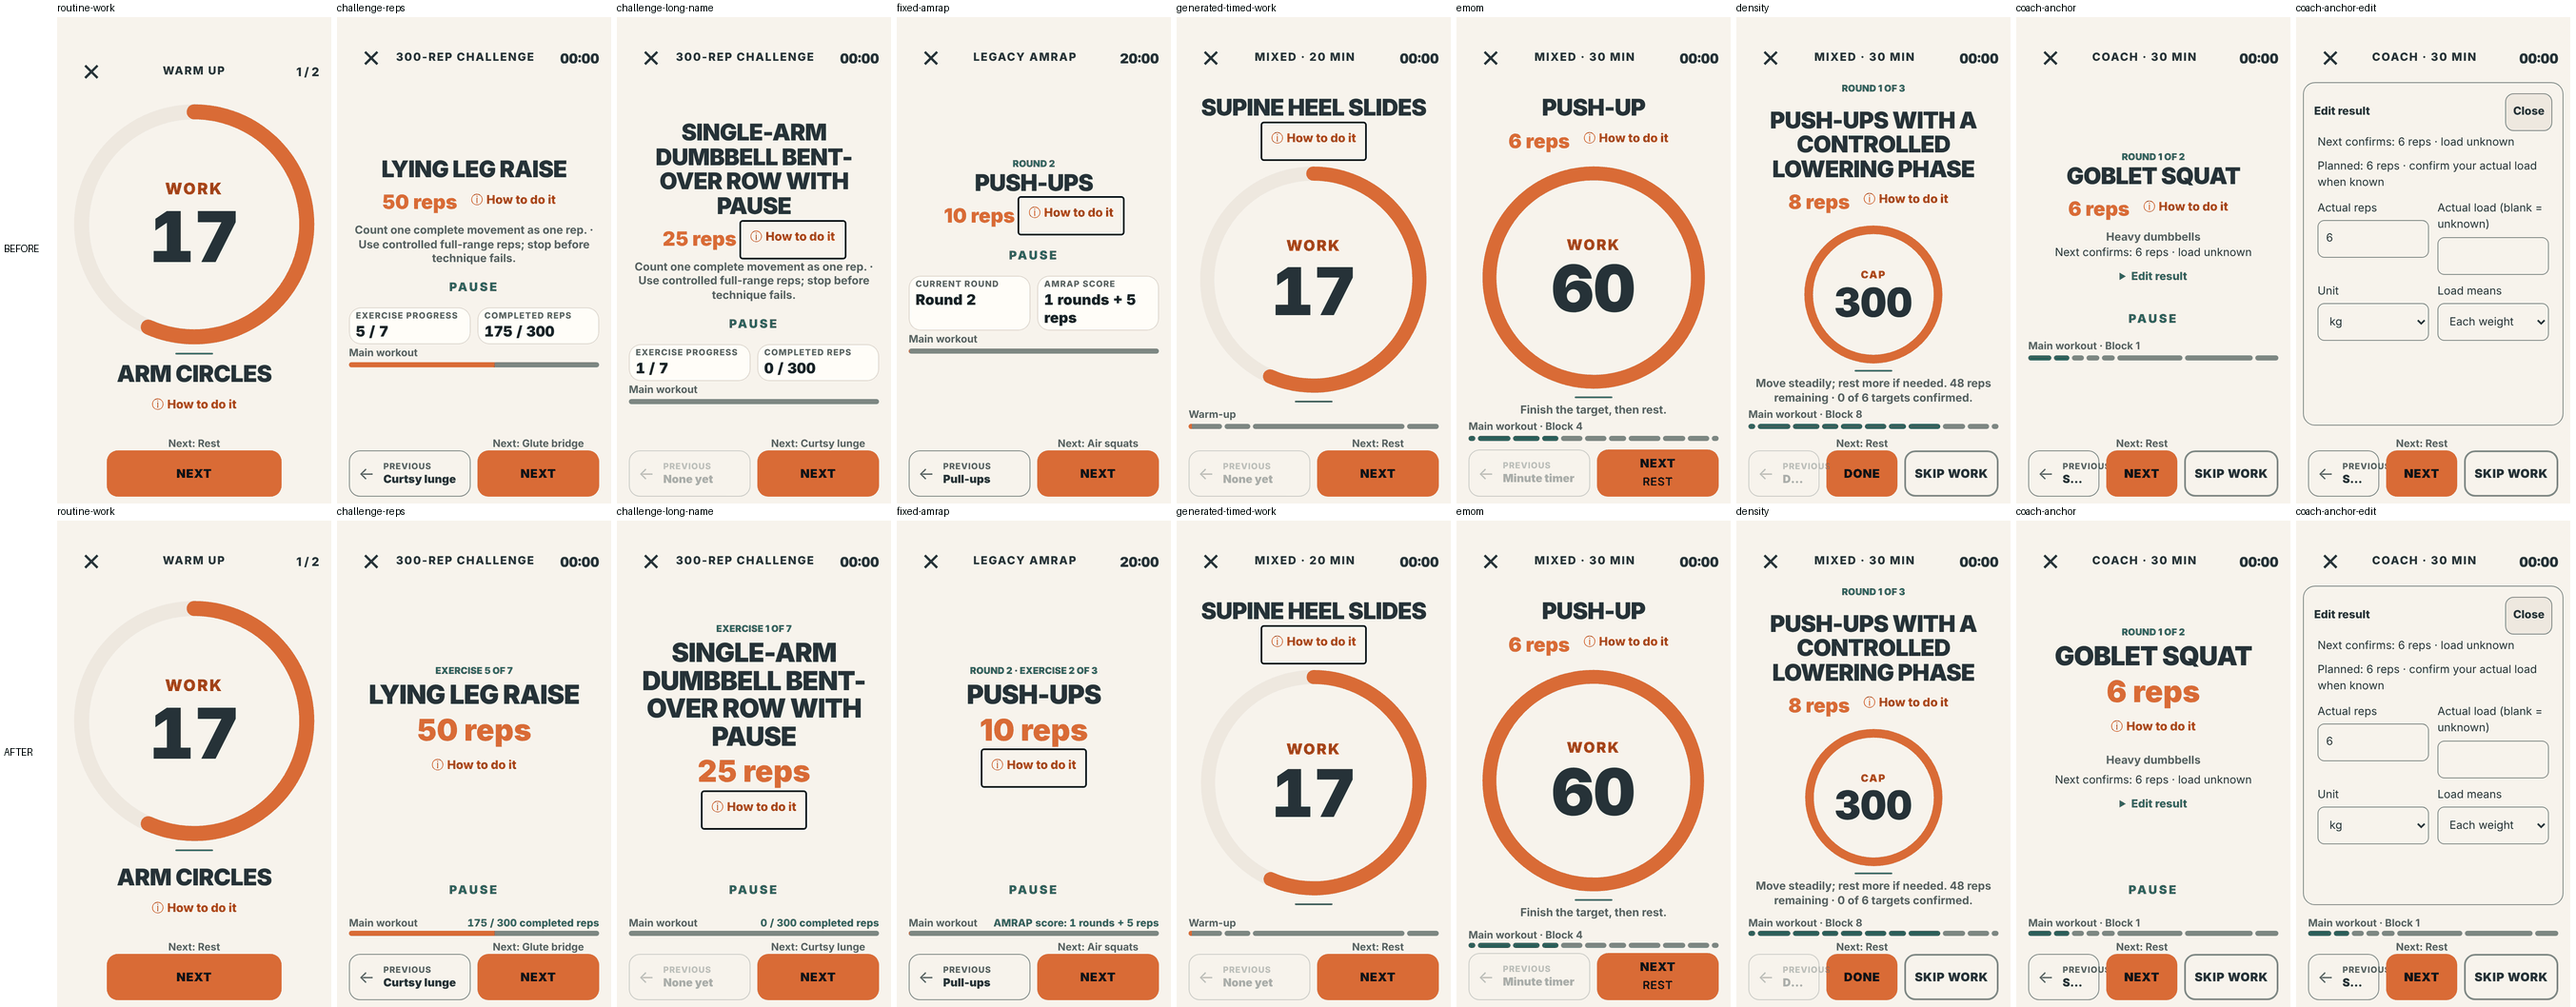
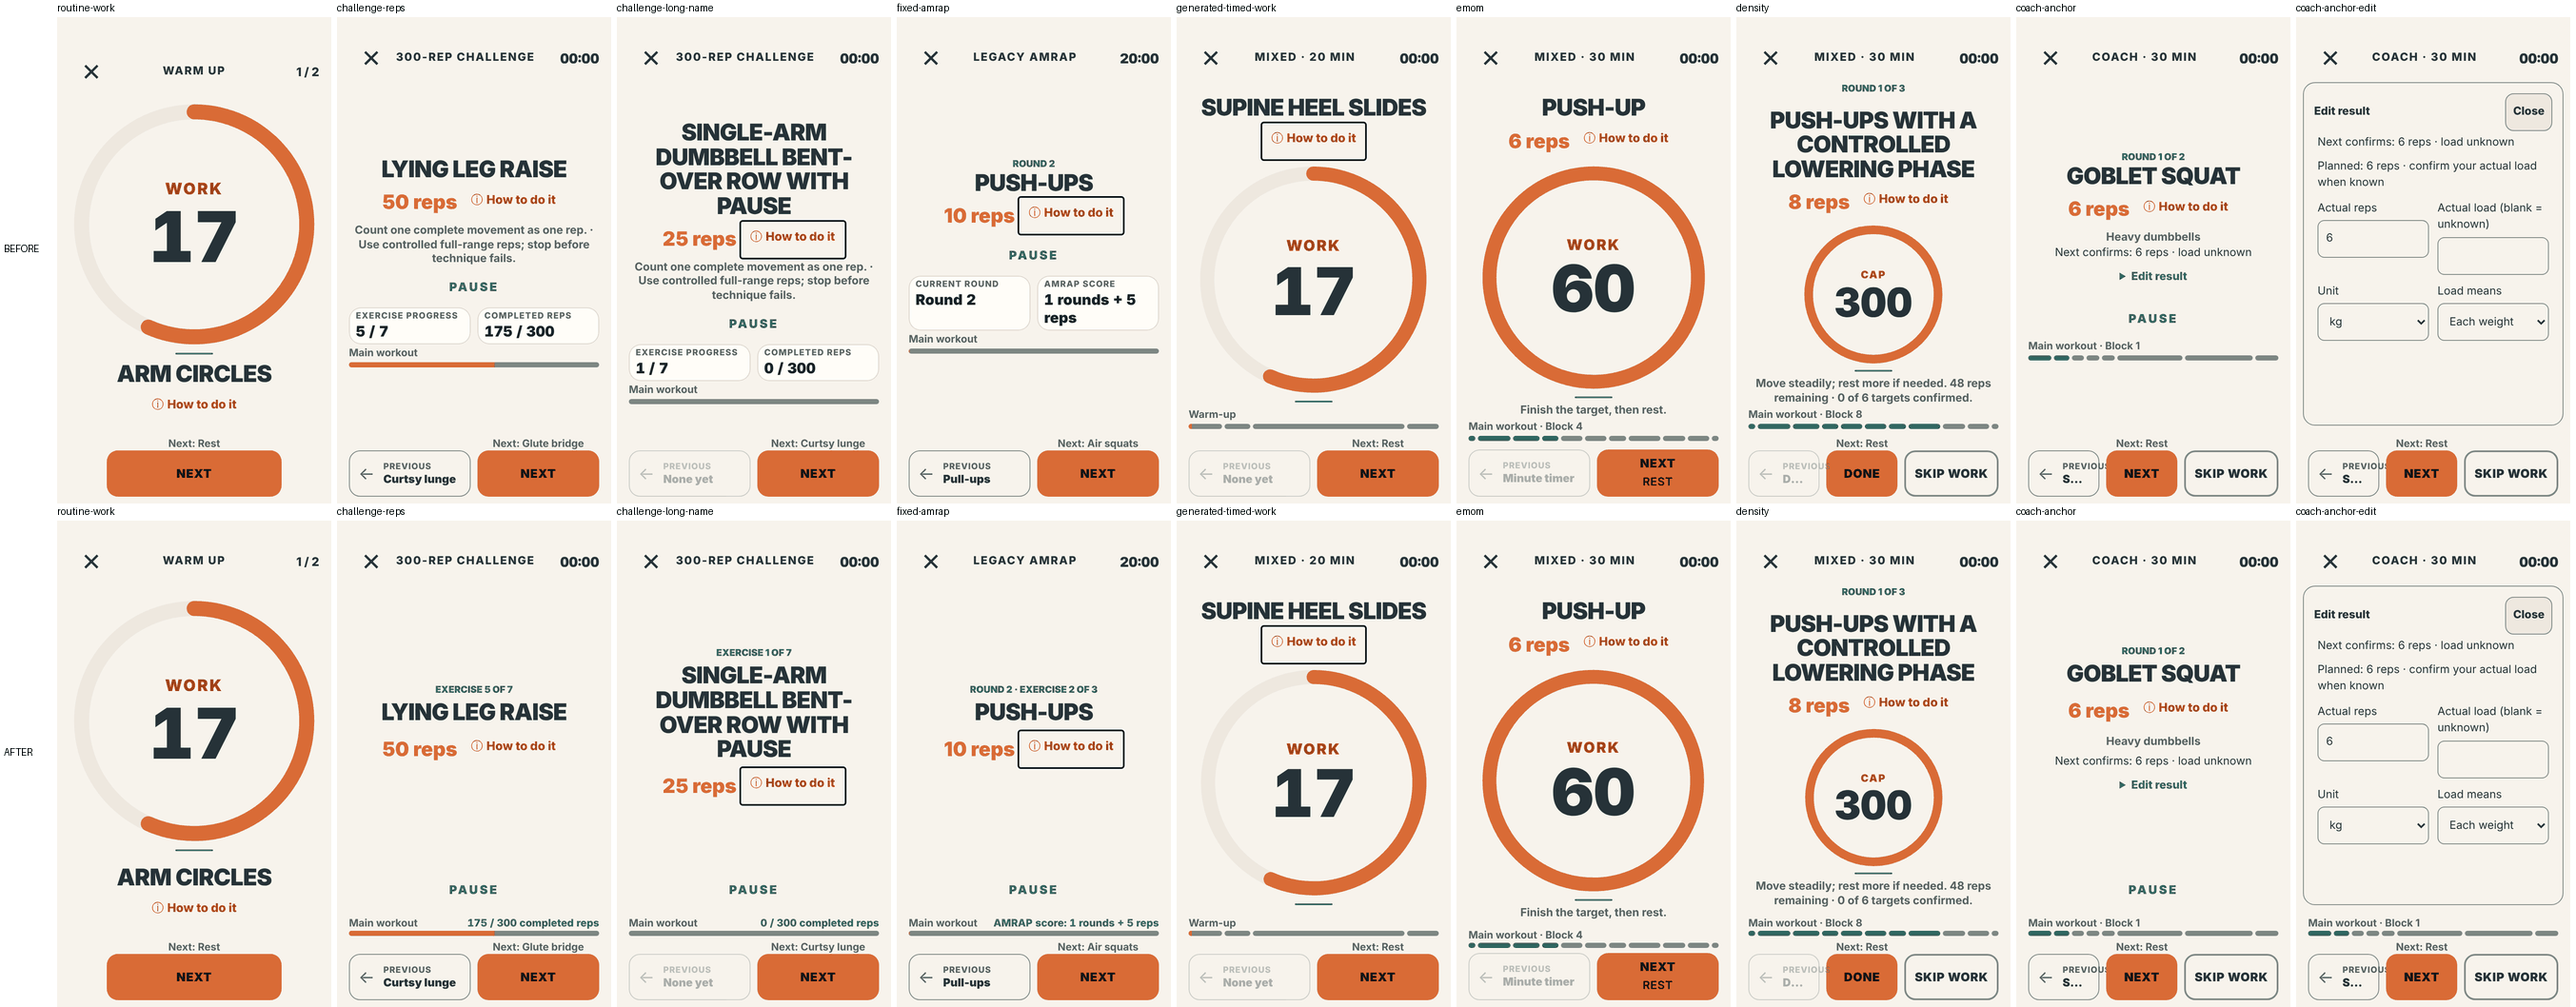
Address independent review of the #404 player foundation
- Enlarged rep name/target apply only above the compact (<=620px) height and
  never in the player-reflow fallback; balance margins also skip reflow.
- How to do it speech surface is described by both instruction and guidance;
  illustration sizing measures the whole displayed text block.
- Clear the fixed-workout confirmed total when a generated workout starts;
  remove the now-dead .generated-player .overall-progress margin.
- Verifier: meaningful vacant-ring check for both players, narrower journey
  fold exemption, generated players must not show the fixed total, and
  screenshot capture is opt-in (--evidence / --evidence-only).
- Docs: correct the reflow/compact statement; physical-device checklist now
  covers the reduced header offset on SE-size/Safari layouts.

Claude-Session: https://claude.ai/code/session_01XwQVQosRuTQgFVM4MxzKHE

Changed region(s): [[0.1242, 0.6238, 0.3415, 0.811], [0.8071, 0.6238, 0.8692, 0.811], [0.3725, 0.655, 0.4346, 0.7798]]

diff --git a/index.html b/index.html
@@ -117,7 +117,7 @@ layout: null
   #equipment{margin-bottom:env(safe-area-inset-bottom);padding-bottom:calc(14px + env(safe-area-inset-bottom))}#equipment>*{flex-shrink:0}
   #equipment .equipment-item{min-width:0;overflow-wrap:anywhere}#equipment .equipment-item::after{flex-shrink:0}
   .preview-kicker{color:var(--work-light);font-weight:900;font-size:12px;letter-spacing:.12em;text-transform:uppercase;margin-bottom:7px}.preview-rounds{font-size:25px;font-weight:950;margin:0 0 15px}.preview-timing{display:grid;grid-template-columns:1fr 1fr;gap:9px;margin:12px 0}.preview-time-card{border:1px solid var(--surface-2);border-radius:12px;padding:11px;color:var(--text-muted);font-size:11px}.preview-time-card strong{display:block;color:var(--text);font-size:15px;margin-bottom:2px}.preview-estimate{text-align:center;color:var(--rest);font-size:15px;font-weight:900;margin:14px 0}.preview-actions{display:grid;grid-template-columns:1fr 1.7fr;gap:10px}.preview-actions button{border-radius:13px;padding:16px 10px;font-size:13px;font-weight:900;text-transform:uppercase}.preview-regenerate{border:1px solid var(--surface-2);background:transparent;color:var(--text)}.preview-start{border:0;background:var(--work);color:#101416}
-  .generated-player .workout-target{font-size:32px}.generated-player .workout-side-note{font-size:15px;color:var(--text-muted)}.generated-player .journey-summary{display:none}.generated-player .overall-progress{margin-top:30px}.generated-player.rest-phase .workout-exercise{color:var(--rest)}
+  .generated-player .workout-target{font-size:32px}.generated-player .workout-side-note{font-size:15px;color:var(--text-muted)}.generated-player .journey-summary{display:none}.generated-player.rest-phase .workout-exercise{color:var(--rest)}
   #generatedDoneStats{grid-template-columns:repeat(3,1fr)}
   #amrapDoneStats{grid-template-columns:1fr}.partial-reps-field{width:100%;border:1px solid #cdd4d1;border-radius:11px;padding:13px;font:inherit;font-size:20px;font-weight:850;color:var(--card-text)}
 
@@ -1626,7 +1626,7 @@ function buildGeneratedTimeline(workout){
 // tracking options ({store, source, meaningful, ...}; see js/session-tracker.js). Coach passes
 // its own tracker; the standalone Start button opts in through standaloneGeneratedTracking().
 function startGeneratedWorkout(tracking){
-  if(!generatorState.workout)return;generatorState.densityBlocks=new Map();generatorState.amrapBlocks=new Map();generatorState.emomBlocks=new Map();generatorState.emomSuspended=false;generatorState.emomActionAfterMs=null;beginInstructionSession();generatorState.workout=GarageFitGenerator.normaliseWorkout(generatorState.workout);stopTimer();stopGeneratedPhaseTimer();stopWorkoutClock();state.running=false;state.doneDestination='generator';workoutState={mode:'generated',idx:0,completed:[],elapsedMs:0,startedAt:Date.now(),timer:null,paused:false,running:true};generatorState.timeline=buildGeneratedTimeline(generatorState.workout);startGeneratedTracking(tracking);generatorState.timelineIndex=0;generatorState.remaining=0;generatorState.completedMain=0;const player=document.getElementById('workoutPlayer');player.classList.add('generated-player');document.getElementById('workoutPlayerTitle').textContent=generatedWorkoutIdentity(generatorState.workout)+' · '+generatorState.workout.duration+' min';document.getElementById('doneStats').classList.add('hidden');document.getElementById('generatedDoneStats').classList.add('hidden');document.getElementById('amrapDoneStats').classList.add('hidden');showScreen('workoutPlayer');startWorkoutClock();requestWake();enterGeneratedPhase(0);speak('Get ready. '+generatorState.timeline.find(phase=>phase.kind==='exercise').exercise.name);
+  if(!generatorState.workout)return;generatorState.densityBlocks=new Map();generatorState.amrapBlocks=new Map();generatorState.emomBlocks=new Map();generatorState.emomSuspended=false;generatorState.emomActionAfterMs=null;beginInstructionSession();generatorState.workout=GarageFitGenerator.normaliseWorkout(generatorState.workout);stopTimer();stopGeneratedPhaseTimer();stopWorkoutClock();state.running=false;state.doneDestination='generator';workoutState={mode:'generated',idx:0,completed:[],elapsedMs:0,startedAt:Date.now(),timer:null,paused:false,running:true};generatorState.timeline=buildGeneratedTimeline(generatorState.workout);startGeneratedTracking(tracking);generatorState.timelineIndex=0;generatorState.remaining=0;generatorState.completedMain=0;const player=document.getElementById('workoutPlayer');player.classList.add('generated-player');document.getElementById('workoutCompletedValue').textContent='';document.getElementById('workoutPlayerTitle').textContent=generatedWorkoutIdentity(generatorState.workout)+' · '+generatorState.workout.duration+' min';document.getElementById('doneStats').classList.add('hidden');document.getElementById('generatedDoneStats').classList.add('hidden');document.getElementById('amrapDoneStats').classList.add('hidden');showScreen('workoutPlayer');startWorkoutClock();requestWake();enterGeneratedPhase(0);speak('Get ready. '+generatorState.timeline.find(phase=>phase.kind==='exercise').exercise.name);
 }
 // Standalone generated workouts add a completed run to shared Training History as a
 // source=generator Session Result. The draft stays in memory: the exit flow promises that

diff --git a/css/player-layout.css b/css/player-layout.css
@@ -205,16 +205,18 @@ layout: null
 
 #completeMovementBtn>#completeMovementNext{display:block;font-size:13px;line-height:1.3;font-weight:600;margin-top:3px}
 
-/* Region 2 (#404): untimed rep work allocates no ring. Its name and target use the
-   freed space, the context/name/target group sits at the optical centre and the
-   explicit Pause control rests at the foot of the region. Portrait/tall only; the
-   landscape column layout and the reflow fallback keep their existing rules. */
+/* Region 2 (#404): untimed rep work allocates no ring. On normal-height portrait
+   layouts its name and target use the freed space; compact (<=620px) sizes still
+   apply on short screens. The context/name/target group sits at the optical centre
+   and the explicit Pause control rests at the foot of the region. Landscape
+   columns and the player-reflow fallback keep their existing rules. */
 @container player-viewport (min-height:481px){
-  #workoutPlayer .workout-stage:not(:has(.workout-ring-host:not(.hidden))) .workout-exercise{font-size:clamp(28px,min(10cqw,5.6cqh),48px)}
-  #workoutPlayer .workout-stage:not(:has(.workout-ring-host:not(.hidden))) .workout-target{flex-basis:100%;font-size:clamp(30px,min(12cqw,6.4cqh),56px);line-height:1.05}
-  #workoutPlayer .workout-stage:not(:has(.workout-ring-host:not(.hidden))){gap:6px}
-  #workoutPlayer .workout-stage:not(:has(.workout-ring-host:not(.hidden))) :is(#workoutMovementProgress,#workoutPausedState){margin-top:auto}
-  #player .routine-stage:has(.ring-wrap.hidden) :is(#routineTarget,#routinePause){margin-top:auto}
-  #player .routine-stage:has(.ring-wrap.hidden) .routine-target{font-size:clamp(30px,min(12cqw,6.4cqh),56px);line-height:1.05}
+  #workoutPlayer:not(.player-reflow) .workout-stage:not(:has(.workout-ring-host:not(.hidden))){gap:6px}
+  #workoutPlayer:not(.player-reflow) .workout-stage:not(:has(.workout-ring-host:not(.hidden))) :is(#workoutMovementProgress,#workoutPausedState){margin-top:auto}
+  #player:not(.player-reflow) .routine-stage:has(.ring-wrap.hidden) :is(#routineTarget,#routinePause){margin-top:auto}
 }
-
+@container player-viewport (min-height:621px){
+  #workoutPlayer:not(.player-reflow) .workout-stage:not(:has(.workout-ring-host:not(.hidden))) .workout-exercise{font-size:clamp(28px,min(10cqw,5.6cqh),48px)}
+  #workoutPlayer:not(.player-reflow) .workout-stage:not(:has(.workout-ring-host:not(.hidden))) .workout-target{flex-basis:100%;font-size:clamp(30px,min(12cqw,6.4cqh),56px);line-height:1.05}
+  #player:not(.player-reflow) .routine-stage:has(.ring-wrap.hidden) .routine-target{font-size:clamp(30px,min(12cqw,6.4cqh),56px);line-height:1.05}
+}

diff --git a/js/player-layout.js b/js/player-layout.js
@@ -45,7 +45,7 @@
         content.setAttribute('role', 'button');
         content.setAttribute('tabindex', '0');
         content.setAttribute('aria-label', 'Read exercise instruction aloud. Activate again to restart.');
-        content.setAttribute('aria-describedby', details.id + 'Text');
+        content.setAttribute('aria-describedby', details.id + 'Text ' + details.id + 'Guidance');
         const icon = document.createElement('span');
         icon.className = 'player-instruction-speaker';
         icon.setAttribute('aria-hidden', 'true');
@@ -111,7 +111,8 @@
           const content=instruction.querySelector('.player-detail-content');
           const region=instruction.querySelector('.player-instruction-image');
           // Catalogue text plus any workout guidance (#404) take precedence over artwork.
-          const textHeight=[...instruction.querySelectorAll('.player-detail-content>p')].reduce((sum,p)=>sum+p.getBoundingClientRect().height,0);
+          const shown=[...instruction.querySelectorAll('.player-detail-content>p')].filter(p=>p.getClientRects().length);
+          const textHeight=shown.length?shown.at(-1).getBoundingClientRect().bottom-shown[0].getBoundingClientRect().top:0;
           const available=content.clientHeight-textHeight-32;
           const width=Math.min(content.clientWidth-8,320,available*4/3);
           const show=region.datasetReady && width>=160;

diff --git a/tests/challenge300-player.test.js b/tests/challenge300-player.test.js
@@ -119,3 +119,12 @@ test('fixed AMRAP keeps its round context and score in compact form',()=>{
   assert.equal(h.el('workoutMovementProgress').textContent,'Round 2 · Exercise 2 of 3');
   assert.equal(h.el('workoutCompletedValue').textContent,'AMRAP score: 1 rounds + 5 reps');
 });
+
+test('a generated workout started after a fixed one does not retain the fixed confirmed total',()=>{
+  const h=harness();h.app.startChallenge300(h.plan);
+  h.time(400);h.app.completeWorkoutMovement();
+  assert.equal(h.el('workoutCompletedValue').textContent,'25 / 300 completed reps');
+  h.run("workoutState.running=false;generatorState.workout=GarageFitGenerator.generate({catalogue:CATALOGUE,duration:20,focus:'balanced',equipment:state.ownedEquipment,random:()=>0.4});startStandaloneGeneratedWorkout()");
+  assert.equal(h.el('workoutPlayer').classList.contains('generated-player'),true);
+  assert.equal(h.el('workoutCompletedValue').textContent,'');
+});

diff --git a/scripts/verify-player-layout.py b/scripts/verify-player-layout.py
@@ -122,18 +122,21 @@ METRICS = """({optional=false,allowReflow=false}={})=>{
  const journey=p.querySelector('.overall-progress');
  if(p.id==='workoutPlayer'){
   const j=box(journey),row=box(controls.querySelector('.workout-secondary-controls')?.firstElementChild||primary);
-  // Only an open editor under a keyboard-height viewport may fold the journey.
-  if(!visible(journey)){if(!(allowReflow&&optional))failures.push('journey hidden')}
+  // Only an open result/partial editor under a keyboard-height (<=340px) player may fold the journey.
+  const usable=app.getBoundingClientRect().height-parseFloat(getComputedStyle(app).paddingTop);
+  if(!visible(journey)){if(!(usable<=340&&p.querySelector('#coachAnchorEdit[open],#densityPartial[open]')))failures.push('journey hidden')}
   else{
    if(!controls.contains(journey)||j.y<nav.y-0.5||j.bottom>nav.bottom+0.5)failures.push('journey outside reserved footer');
    if(j.bottom>Math.min(pb.y,row.y)-2)failures.push('journey crowds navigation');
   }
   const summary=p.querySelector('#workoutCompletedValue');
   if(visible(summary)&&summary.scrollWidth>summary.clientWidth+1)failures.push('journey summary clipped');
-  // Rep work allocates no ring space (no vacant timer area).
-  const host=p.querySelector('.workout-ring-host');
-  if(host.classList.contains('hidden')&&visible(host))failures.push('vacant ring allocation');
+  // Generator and Coach never show the fixed-workout confirmed total.
+  if(p.classList.contains('generated-player')&&visible(summary))failures.push('generated player shows fixed total');
  }else if(journey)failures.push('routine player gained a journey');
+ // Without a visible ring, its host reserves no stage height (no vacant timer area).
+ const host=stage.querySelector('.routine-ring-host,.workout-ring-host');
+ if(!visible(p.querySelector('.ring-wrap'))&&box(host).height>1)failures.push('vacant ring allocation');
  // Balance: untimed portrait work splits free space evenly above its content group
  // and before the Pause control (or footer), rather than packing it at one edge.
  if(!optional&&!allowReflow&&v.width<540&&p.clientHeight>580&&!visible(p.querySelector('.ring-wrap'))){
@@ -512,6 +515,7 @@ def main():
     parser.add_argument('--url',default='http://127.0.0.1:8000')
     parser.add_argument('--output',type=Path,default=Path('/tmp/player-layout'))
     parser.add_argument('--navigation-only',action='store_true',help='Check the primary tab shell without running player fixtures')
+    parser.add_argument('--evidence',action='store_true',help='Also capture light/dark representative screenshots (evidence/) during the full run')
     parser.add_argument('--evidence-only',action='store_true',help='Capture light/dark representative screenshots (evidence/) without the full matrix')
     args=parser.parse_args();args.output.mkdir(parents=True,exist_ok=True)
     report=[]
@@ -528,7 +532,7 @@ def main():
             browser.close()
             return
         blocks=fixture_blocks()
-        appearance_evidence(browser,args.url,args.output/'evidence',blocks)
+        if args.evidence:appearance_evidence(browser,args.url,args.output/'evidence',blocks)
         instruction_speech_checks(browser,args.url)
         header_equivalence_checks(browser,args.url)
         timers.native_entry_checks(browser,args.url)

diff --git a/docs/PLAYER_VIEWPORT.md b/docs/PLAYER_VIEWPORT.md
@@ -245,10 +245,13 @@ visual viewport. No third player, framework or protocol-specific layout was adde
    This supersedes the routine-only `.player-top{padding-top:16px}` rule.
 2. **Adaptive current exercise.** The stage takes the remaining height. Timed states
    keep the unchanged ring, divider, tap-to-pause and colours. Untimed rep work
-   allocates no ring; on portrait/tall viewports its exercise name and target scale
-   up from the stage size (target on its own row), the context/name/target group
-   sits near the optical centre and the explicit Pause control rests at the foot of
-   the stage. Landscape columns and the bounded `player-reflow` fallback are unchanged.
+   allocates no ring. When the player viewport is taller than 620px, its exercise
+   name and target scale up from the stage size (target on its own row); shorter
+   screens keep the existing compact sizes. On portrait viewports taller than 480px
+   the context/name/target group sits near the optical centre and the explicit
+   Pause control rests at the foot of the stage. None of these rules apply in
+   landscape columns or the bounded `player-reflow` fallback, which keep their
+   existing rules.
 3. **Reserved footer.** In the workout player the existing `.overall-progress`
    journey (segmented #292 bar, phase label, IDs and ARIA unchanged) is now a DOM
    child of `.workout-actions`, followed by the `Next:` preview and the #280
@@ -286,9 +289,9 @@ unclipped footer total, no vacant ring host for rep work, the routine player
 without a journey, and a portrait rep name centred within the middle of the
 stage. `header_equivalence_checks` compares routine, fixed and generated header/
 Exit positions at six viewports. The matrix uses a 59px top inset at 393×852.
-`--evidence-only` captures light/dark screenshots of representative states with
-safe areas substituted into the served CSS; run it against main and the branch for
-before/after comparison. Chromium emulation does not establish native iOS header
+`--evidence-only` (or `--evidence` alongside the full run) captures light/dark
+screenshots of representative states with safe areas substituted into the served
+CSS; run it against main and the branch for before/after comparison. Chromium emulation does not establish native iOS header
 sharpness or installed-PWA safe areas: physical iPhone acceptance is separate.
 
 Before/after Chromium captures (same fixtures, safe areas substituted into the CSS:

diff --git a/docs/PLAYER_HEADER_INVESTIGATION.md b/docs/PLAYER_HEADER_INVESTIGATION.md
@@ -216,6 +216,11 @@ normal heights. To avoid the earlier both-header overflow on reduced-height
 density work, the offset steps down in whole pixels (8px at a player viewport of
 700px or less, 0px at 580px or less) while the layout fits; no transform,
 filter, font change or viewport rounding is involved. Browser checks confirm
-equal header/Exit positions across routine, fixed and generated players. Physical
-installed-iPhone sharpness and safe-area acceptance of the workout header is
-**unverified** until checked on the device.
+equal header/Exit positions across routine, fixed and generated players.
+
+Note that the routine header previously kept 16px at every height. On short
+players (iPhone SE class, or Safari with its toolbars) it now uses 8px, and 0px on
+the shortest layouts. Physical installed-iPhone sharpness and safe-area acceptance
+is **unverified** until checked on the device. That check should cover both
+players on the iPhone 15 (normal height, 16px) and, if available, an SE-size
+screen or Safari with toolbars (reduced offset), in light and dark appearances.
